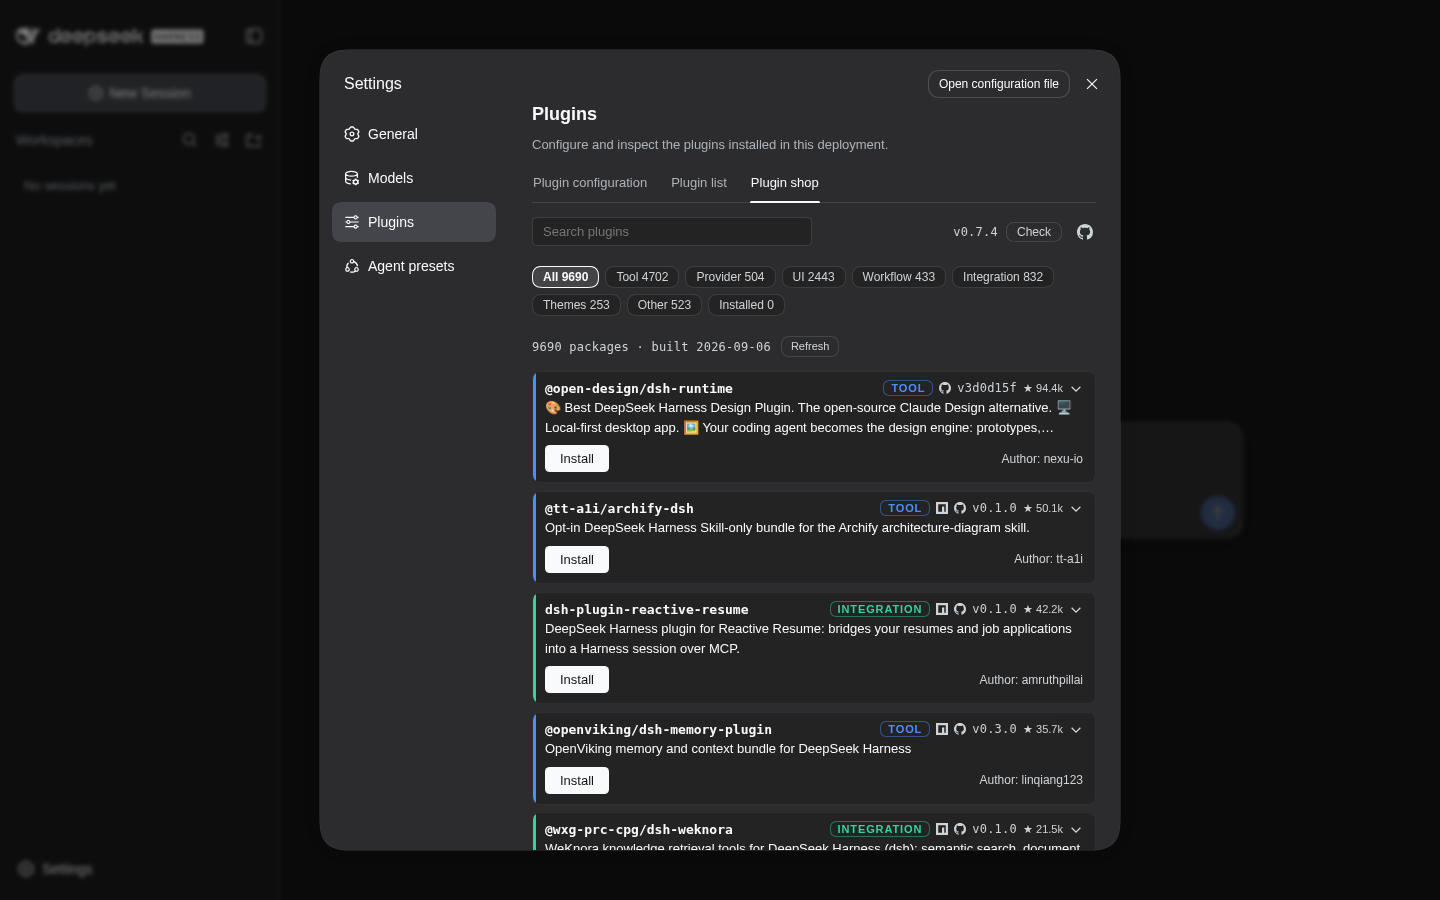
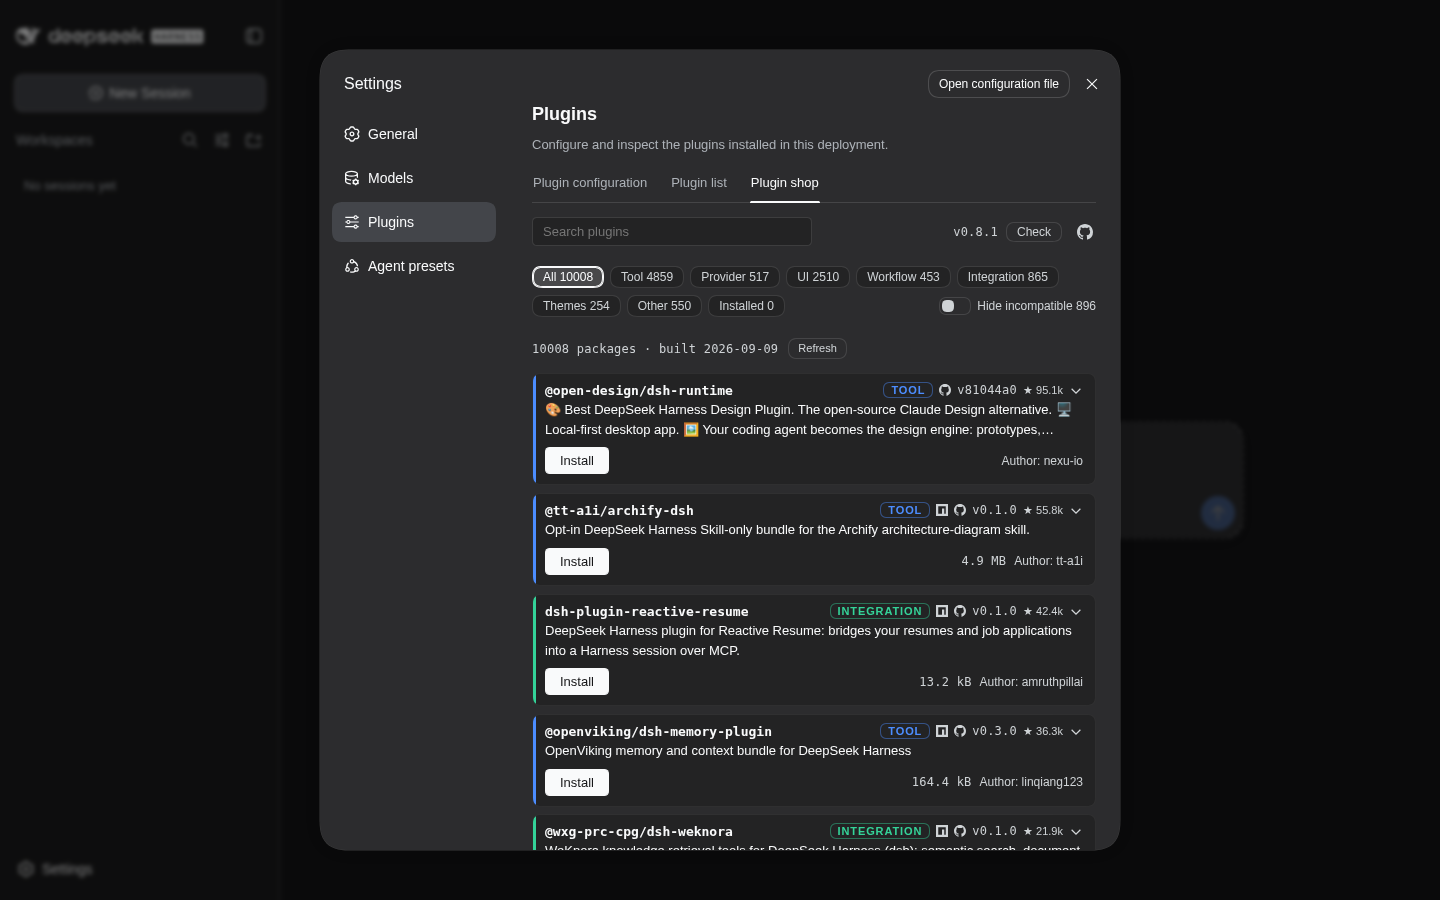
chore: 0.8.1 — the shelf shows what an install costs, and the harvest gains a publisher axis
Promotes 0.8.1-beta.2 to `latest`. `package.json` and the install pin in all
four READMEs move together, as the release discipline requires; the pins track
`latest`, so this is the commit they move in — and the six README screenshots
are reshot here alongside them, because the shoot installs the version the
READMEs pin and so cannot run until that version is published.

What a user gets over 0.8.0:

- Every npm card says what installing it puts on disk. Decimal kB/MB/GB with
  one fractional digit, matching npm's own package page so a reader comparing
  the two cannot find different numbers for one package; locale-free, so the
  shelf's two languages cannot disagree about a size. A github entry has no
  honest figure and renders no label rather than a guess.
- A hide-incompatible switch at the far edge of the category bar, carrying the
  count. A modifier rather than a ninth category: it subtracts from whatever
  the tabs chose, keeps its state across a category switch, and is off by
  default. Exempt in the Installed view, where the incompatible card is the
  only surface holding the remedy.
- A pressed category tab paints in its category's hue, read from the same
  table the card spine reads, and cannot change size — the bar wraps, so a tab
  that grows on selection slides out from under the pointer that clicked it.
- An offline shop keeps its cached catalog when a cache write fails. The
  pointer used to land before the file it named, so a failure between them
[…]

diff --git a/README.zh.md b/README.zh.md
@@ -33,9 +33,9 @@ pnpm`，并用 `dsh --version` 和 `pnpm --version` 验证。
 # dsh 在 PATH 上（全局安装）。必须钉版本号：pnpm 11 会拦下刚发布的新版本，
 # 不写版本号的裸安装可能给你旧版。下面是当前版本——用
 # `npm view dsh-plugin-shop version` 查最新值。
-dsh plugin --profile web add dsh-plugin-shop@0.8.0
+dsh plugin --profile web add dsh-plugin-shop@0.8.1
 # 或全程走 npx，什么都不装：
-npx -y @deepseek-ai/dsh plugin --profile web add dsh-plugin-shop@0.8.0
+npx -y @deepseek-ai/dsh plugin --profile web add dsh-plugin-shop@0.8.1
 ```
 
 用的不是 `web` 就换成你自己的 profile。重启一次 `dsh`——新加的 bundle 不会作用于已在运行的
@@ -53,7 +53,7 @@ npx -y @deepseek-ai/dsh plugin --profile web add dsh-plugin-shop@0.8.0
 ls -1 "${DSH_HOME:-$HOME/.dsh}/profiles" | grep -v '^node_modules$'
 
 # 2. 安装——钉版本号：绕过 pnpm 的发布冷却期，确定性安装也是 agent 路径的要点
-dsh plugin --profile <profile> add dsh-plugin-shop@0.8.0
+dsh plugin --profile <profile> add dsh-plugin-shop@0.8.1
 
 # 3. 验证——上一步返回 0 只说明 pnpm 解析到了这个包
 dsh plugin --profile <profile> list --depth 0   # dsh-plugin-shop 必须出现

diff --git a/packages/dsh-plugin-shop/docs/README.zh.md b/packages/dsh-plugin-shop/docs/README.zh.md
@@ -33,9 +33,9 @@ pnpm`，并用 `dsh --version` 和 `pnpm --version` 验证。
 # dsh 在 PATH 上（全局安装）。必须钉版本号：pnpm 11 会拦下刚发布的新版本，
 # 不写版本号的裸安装可能给你旧版。下面是当前版本——用
 # `npm view dsh-plugin-shop version` 查最新值。
-dsh plugin --profile web add dsh-plugin-shop@0.8.0
+dsh plugin --profile web add dsh-plugin-shop@0.8.1
 # 或全程走 npx，什么都不装：
-npx -y @deepseek-ai/dsh plugin --profile web add dsh-plugin-shop@0.8.0
+npx -y @deepseek-ai/dsh plugin --profile web add dsh-plugin-shop@0.8.1
 ```
 
 如果你用的不是 `web` profile，把它换成你自己的。然后重启一次 `dsh`——新加的 bundle 不会作用于
@@ -60,7 +60,7 @@ ls -1 "${DSH_HOME:-$HOME/.dsh}/profiles" | grep -v '^node_modules$'
 **2. 安装。** 钉版本号——显式钉版本能绕过 pnpm 的发布冷却期，确定性安装本来也是 agent 路径的要点。
 
 ```sh
-dsh plugin --profile <profile> add dsh-plugin-shop@0.8.0
+dsh plugin --profile <profile> add dsh-plugin-shop@0.8.1
 ```
 
 **3. 验证——这步别省。** 第 2 步返回 0 只说明 pnpm 解析到了这个包，不代表 profile 会加载它。

diff --git a/README.md b/README.md
@@ -35,9 +35,9 @@ install them once with `npm install -g @deepseek-ai/dsh pnpm` and verify with
 # recent releases, so a bare `add dsh-plugin-shop` can hand you an older
 # version for a while. This is the current release — refresh it with
 # `npm view dsh-plugin-shop version`.
-dsh plugin --profile web add dsh-plugin-shop@0.8.0
+dsh plugin --profile web add dsh-plugin-shop@0.8.1
 # or straight through npx, nothing installed:
-npx -y @deepseek-ai/dsh plugin --profile web add dsh-plugin-shop@0.8.0
+npx -y @deepseek-ai/dsh plugin --profile web add dsh-plugin-shop@0.8.1
 ```
 
 Replace `web` with your profile if you use another one. Restart `dsh` once — a newly
@@ -56,7 +56,7 @@ ls -1 "${DSH_HOME:-$HOME/.dsh}/profiles" | grep -v '^node_modules$'
 
 # 2. install — pin the version: it bypasses pnpm's release cooldown and
 #    deterministic installs are the point of the agent path
-dsh plugin --profile <profile> add dsh-plugin-shop@0.8.0
+dsh plugin --profile <profile> add dsh-plugin-shop@0.8.1
 
 # 3. verify — a zero exit above only means pnpm resolved the package
 dsh plugin --profile <profile> list --depth 0   # dsh-plugin-shop must appear

diff --git a/packages/dsh-plugin-shop/README.md b/packages/dsh-plugin-shop/README.md
@@ -35,9 +35,9 @@ install them once with `npm install -g @deepseek-ai/dsh pnpm` and verify with
 # holds back very recent releases, so a bare `add dsh-plugin-shop` can hand
 # you an older version for a while. Pin the current release — refresh it
 # with `npm view dsh-plugin-shop version`.
-dsh plugin --profile web add dsh-plugin-shop@0.8.0
+dsh plugin --profile web add dsh-plugin-shop@0.8.1
 # or straight through npx, nothing installed:
-npx -y @deepseek-ai/dsh plugin --profile web add dsh-plugin-shop@0.8.0
+npx -y @deepseek-ai/dsh plugin --profile web add dsh-plugin-shop@0.8.1
 ```
 
 Replace `web` with your profile if you use another one. Then restart `dsh` once — a
@@ -67,7 +67,7 @@ ls -1 "${DSH_HOME:-$HOME/.dsh}/profiles" | grep -v '^node_modules$'
 cooldown, and deterministic installs are the point of the agent path.
 
 ```sh
-dsh plugin --profile <profile> add dsh-plugin-shop@0.8.0
+dsh plugin --profile <profile> add dsh-plugin-shop@0.8.1
 ```
 
 **3. Verify — do not skip this.** A zero exit from step 2 means pnpm resolved the
